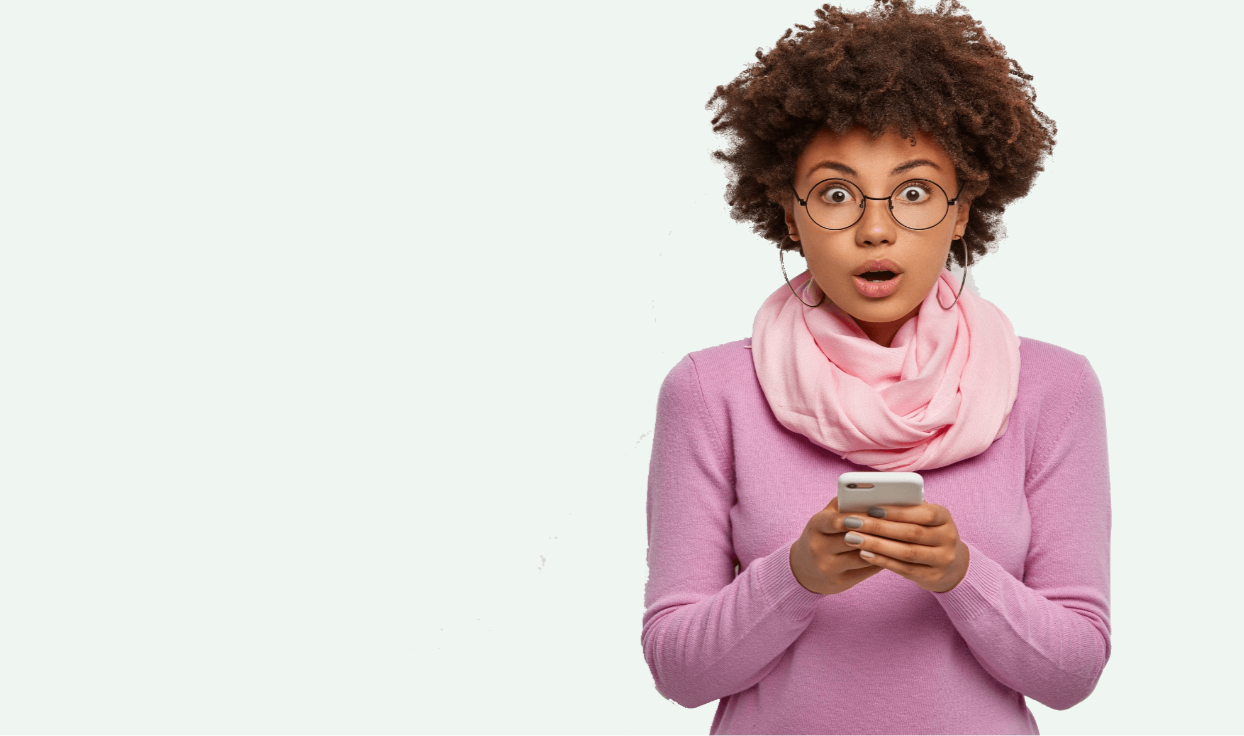
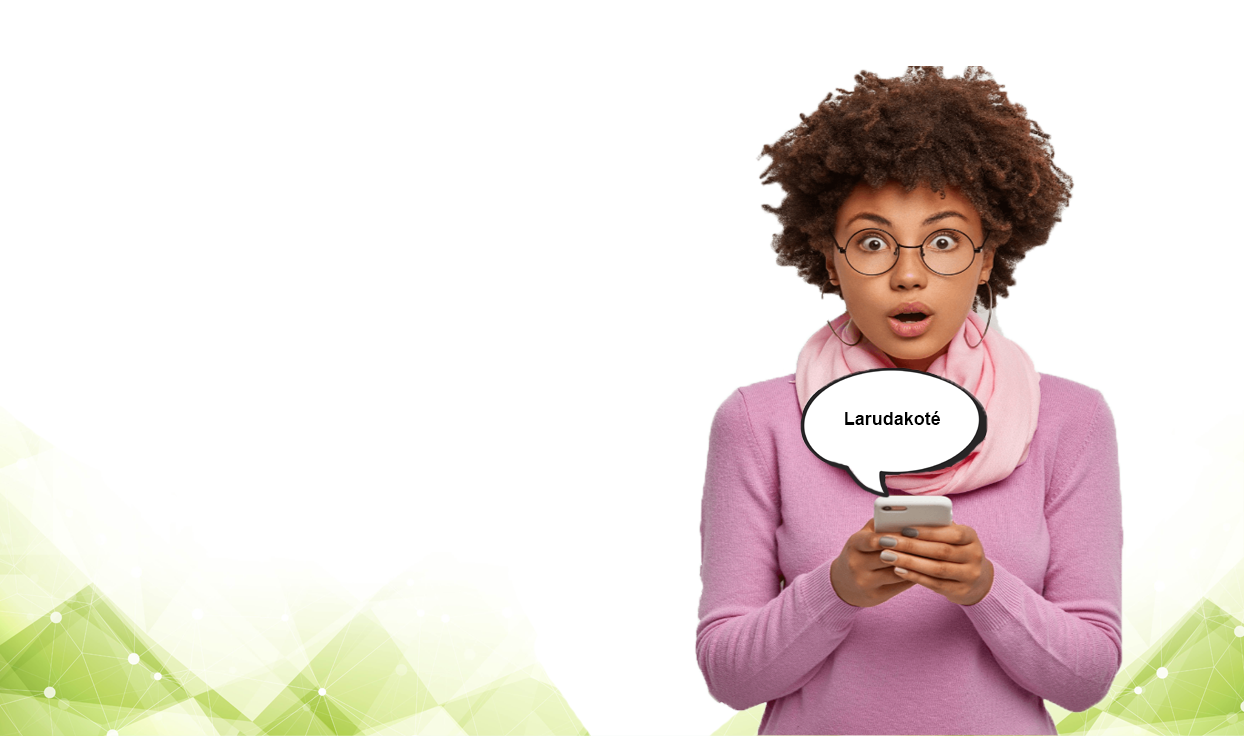
Fix Front Homepage

Changed region(s): [[0.4887, 0.0, 1.0, 1.0], [0.0, 0.6875, 0.4887, 1.0]]

diff --git a/app/src/views/HomeView.vue b/app/src/views/HomeView.vue
@@ -1,20 +1,16 @@
 <template>
-  <div class="div-background">
+  <div class="div-background ">
     <v-row>
       <v-col cols="5">
-        <div class="catch-phrase">Find A Job That Matches Your passion</div>
-        <div class="small-text mb-16">
+        <div class="catch-phrase">Find a job that matches your passion</div>
+        <!-- <div class="small-text mb-16">
           Hand-picked opportunities to work from home, remotely, freelance, full-time, part-time,
           contract and internships.
-        </div>
+        </div> -->
         <div class="smaller-text mt-16">
-          Are you tired of endlessly scrolling through job listings? Take control of your career
-          destiny! Join our job search website and gain access to a vast network of exclusive
-          opportunities. From entry-level positions to executive roles, our platform connects you
-          with companies actively seeking talented individuals like you. With personalized job
-          recommendations, expert career resources, and a supportive community, we're dedicated to
-          empowering you in your job search journey. Don't settle for just any job – find the one
-          that fulfills your potential. Register now and embark on a path to professional success!
+          Supercharge your career with our job search website! Connect with top companies and access exclusive opportunities tailored just for you. 
+          From entry-level to executive positions, our platform offers personalized job recommendations and expert resources. 
+          Join our supportive community and unlock your professional potential. Register now for success!
         </div>
       </v-col>
     </v-row>
@@ -30,7 +26,7 @@
   background-size: cover;
   background-position: center;
   width: 100%;
-  height: 100vh;
+  height: 93.4vh;
 }
 
 @media (min-width: 768px) {
@@ -41,17 +37,14 @@
   .catch-phrase {
     font-size: 4rem;
     font-weight: 700;
-    color: #338573;
   }
   .small-text {
     font-size: 1.5rem;
     font-weight: 400;
-    color: #338573;
   }
   .smaller-text {
     font-size: 1rem;
     font-weight: 400;
-    color: #338573;
   }
 }
 
@@ -64,12 +57,10 @@
   .catch-phrase {
     font-size: 1rem;
     font-weight: 700;
-    color: #338573;
   }
   .small-text {
     font-size: 0.5rem;
     font-weight: 400;
-    color: #338573;
   }
 }
 </style>

diff --git a/app/src/components/TheAppBar.vue b/app/src/components/TheAppBar.vue
@@ -1,9 +1,9 @@
 <template>
   <div>
-    <v-app-bar :elevation="0" color="green-100">
+    <v-app-bar :elevation="0" color="white-100">
       <template v-slot:append>
-        <v-btn variant="outlined" color="green-800" @click="router.push('/login')">Login</v-btn>
-        <v-btn class="ml-1" variant="outlined" @click="router.push('/register')">Register</v-btn>
+        <v-btn variant="text" color="green-800" @click="router.push('/login')">Login</v-btn>
+        <v-btn class="ml-1" variant="text" @click="router.push('/register')">Register</v-btn>
       </template>
       <v-app-bar-title @click="router.push('/')"> Larudakoté </v-app-bar-title>
     </v-app-bar>

diff --git a/app/src/App.vue b/app/src/App.vue
@@ -1,5 +1,5 @@
 <template>
-  <v-app class="bg-grey-100">
+  <v-app class="bg-white-100">
     <TheAppBar />
     <v-main>
       <router-view />
